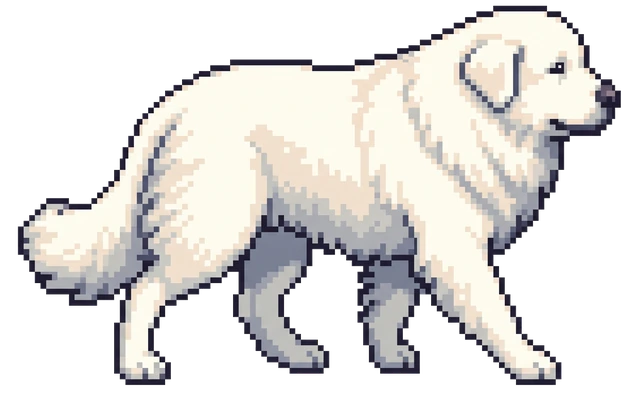
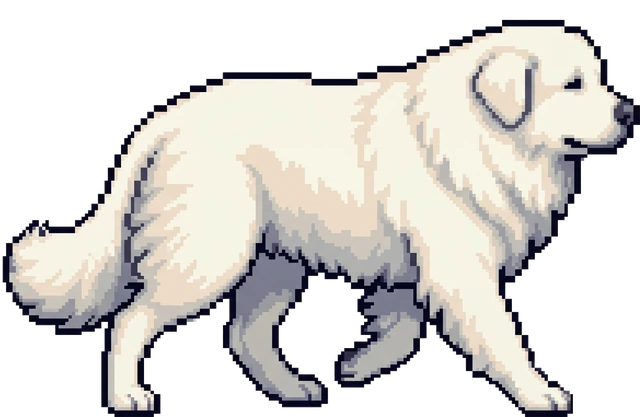
Cập nhật 8 frame đi bộ cho chó Great Pyrenees và căn chuẩn tỉ lệ kích thước

diff --git a/index.html b/index.html
@@ -8,7 +8,7 @@
   <link rel="preconnect" href="https://fonts.googleapis.com">
   <link rel="preconnect" href="https://fonts.gstatic.com" crossorigin>
   <link href="https://fonts.googleapis.com/css2?family=Be+Vietnam+Pro:wght@300;400;500&family=Cormorant+Garamond:ital,wght@0,300;0,400;0,500;1,300;1,400&family=Press+Start+2P&family=Lora:ital,wght@0,400;0,600;1,400&family=Playfair+Display:ital,wght@0,400;0,700;1,400&family=Dancing+Script:wght@400;700&family=Patrick+Hand&display=swap" rel="stylesheet">
-  <link rel="stylesheet" href="css/style.css?v=20261018">
+  <link rel="stylesheet" href="css/style.css?v=20261018c">
 </head>
 <body>
 <main id="app">
@@ -217,15 +217,15 @@
 
 </main>
 
-<script src="js/render.js?v=20261018"></script>
-<script src="js/audio.js?v=20261018"></script>
-<script src="js/zodiac.js?v=20261018"></script>
-<script src="js/memory.js?v=20261018"></script>
-<script src="js/timeline.js?v=20261018"></script>
-<script src="js/shooting.js?v=20261018"></script>
-<script src="js/galaxy.js?v=20261018"></script>
-<script src="js/intro.js?v=20261018"></script>
-<script src="js/main.js?v=20261018"></script>
-<script src="js/dog.js?v=20261018"></script>
+<script src="js/render.js?v=20261018c"></script>
+<script src="js/audio.js?v=20261018c"></script>
+<script src="js/zodiac.js?v=20261018c"></script>
+<script src="js/memory.js?v=20261018c"></script>
+<script src="js/timeline.js?v=20261018c"></script>
+<script src="js/shooting.js?v=20261018c"></script>
+<script src="js/galaxy.js?v=20261018c"></script>
+<script src="js/intro.js?v=20261018c"></script>
+<script src="js/main.js?v=20261018c"></script>
+<script src="js/dog.js?v=20261018c"></script>
 </body>
 </html>

diff --git a/css/style.css b/css/style.css
@@ -278,8 +278,8 @@ button:focus-visible{outline:2px dashed var(--pink-soft);outline-offset:4px}
 .m-dog{left:22%;bottom:0;width:80%;transition:opacity .4s}
 .mascot.dog-out .m-dog{opacity:0}
 
-/* Chú chó đi dạo dưới đáy màn hình thiên hà */
-.walk-dog{position:absolute;left:0;bottom:1.2vh;height:21vh;z-index:5;pointer-events:none;
+/* Chú chó đi dạo dưới đáy màn hình thiên hà - kích thước tỉ lệ chuẩn 1:1 với người ngồi */
+.walk-dog{position:absolute;left:0;bottom:2.2vh;height:clamp(56px, 7.2vh, 72px);z-index:5;pointer-events:none;
   opacity:0;transition:opacity .45s ease;will-change:transform}
 .walk-dog.show{opacity:1}
 .walk-dog img{height:100%;width:auto;display:block;image-rendering:pixelated;

diff --git a/js/dog.js b/js/dog.js
@@ -1,8 +1,8 @@
 /* Chú chó Great Pyrenees đi dạo dọc đáy màn hình thiên hà khi bấm vào hình ở góc trái */
 const WalkDog = (() => {
   const $ = id => document.getElementById(id);
-  const FRAMES = [1, 2, 3, 4].map(i => `assets/img/dog_walk${i}.webp`);
-  const FRAME_MS = 140, SPEED = 95;          // px / giây
+  const FRAMES = [1, 2, 3, 4, 5, 6, 7, 8].map(i => `assets/img/dog_walk${i}.webp`);
+  const FRAME_MS = 105, SPEED = 80;          // px / giây
   let dog, img, galaxy, mascot;
   let on = false, x = 0, dir = 1, target = 0, pauseUntil = 0;
   let frame = 0, lastFrame = 0, last = 0, raf = 0;
